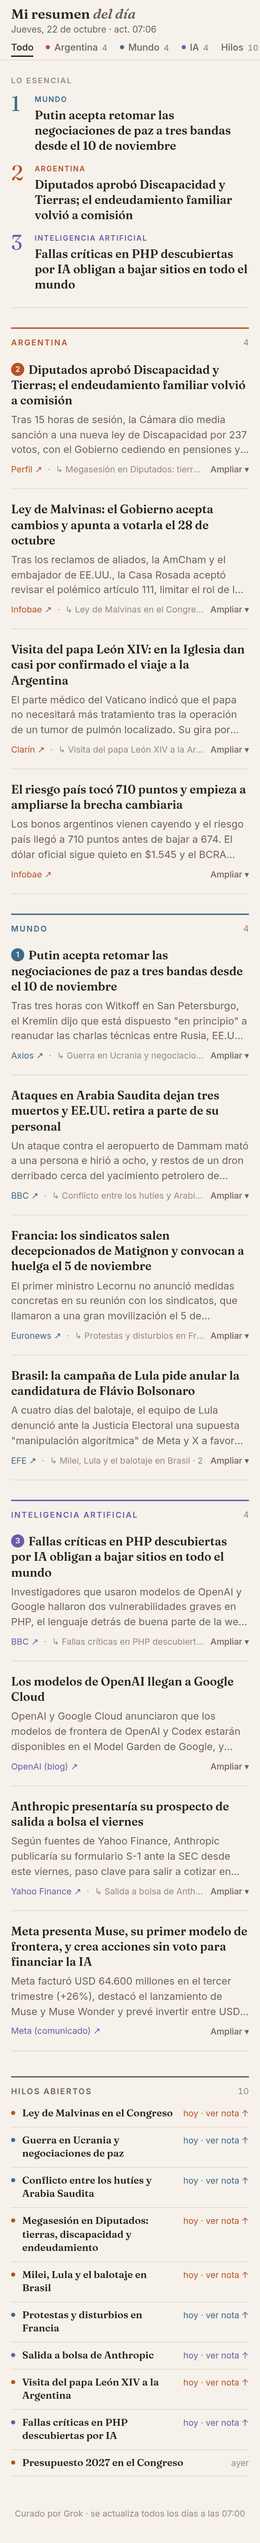
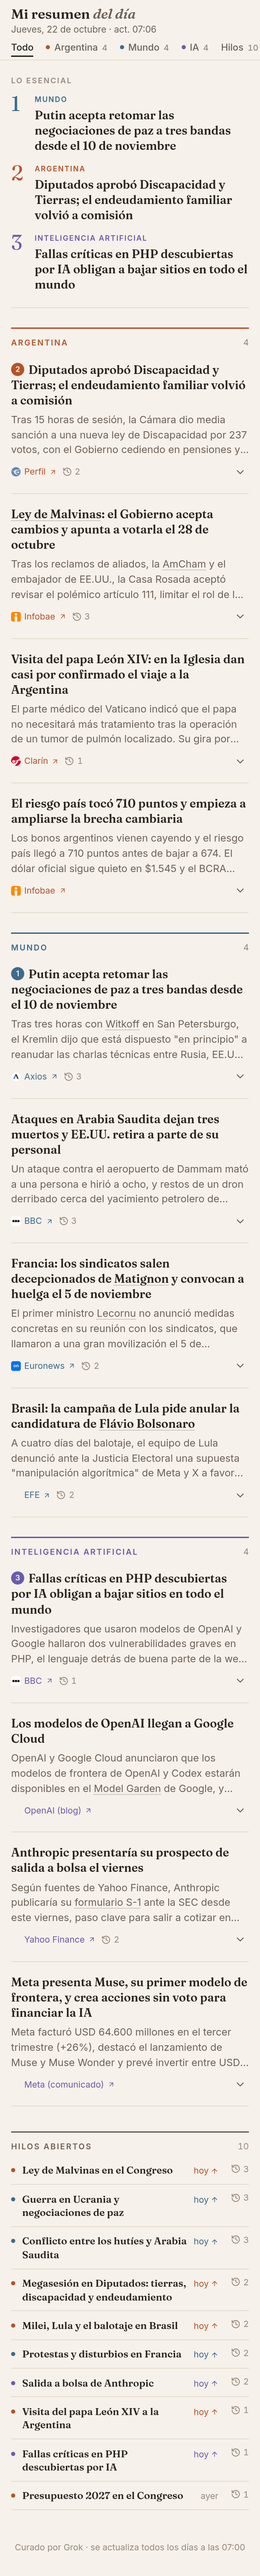
Glosario emergente e íconos

diff --git a/app.js b/app.js
@@ -11,8 +11,62 @@
     var p = String(nombre).trim().split(/\s+/);
     return nombre.length > 14 && p.length > 1 ? p.map(function (w) { return w.charAt(0).toUpperCase(); }).join("") : nombre;
   };
+  var GLOSARIO = window.GLOSARIO || {};
+  var ICONOS = {
+    "flecha-diag": '<path d="M7 17 17 7"/><path d="M7 7h10v10"/>',
+    "flecha-arriba": '<path d="m5 12 7-7 7 7"/><path d="M12 19V5"/>',
+    "historial": '<path d="M3 12a9 9 0 1 0 9-9 9.75 9.75 0 0 0-6.74 2.74L3 8"/><path d="M3 3v5h5"/><path d="M12 7v5l4 2"/>',
+    "chevron": '<path d="m6 9 6 6 6-6"/>',
+    "diana": '<circle cx="12" cy="12" r="10"/><circle cx="12" cy="12" r="6"/><circle cx="12" cy="12" r="2"/>',
+    "persona": '<circle cx="12" cy="8" r="5"/><path d="M20 21a8 8 0 0 0-16 0"/>',
+    "ley": '<path d="M15 2H6a2 2 0 0 0-2 2v16a2 2 0 0 0 2 2h12a2 2 0 0 0 2-2V7Z"/><path d="M14 2v4a2 2 0 0 0 2 2h4"/><path d="M16 13H8"/><path d="M16 17H8"/><path d="M10 9H8"/>',
+    "organizacion": '<rect width="16" height="20" x="4" y="2" rx="2"/><path d="M9 22v-4h6v4"/><path d="M8 6h.01"/><path d="M16 6h.01"/><path d="M12 6h.01"/><path d="M12 10h.01"/><path d="M12 14h.01"/><path d="M16 10h.01"/><path d="M16 14h.01"/><path d="M8 10h.01"/><path d="M8 14h.01"/>',
+    "lugar": '<path d="M20 10c0 4.993-5.539 10.193-7.399 11.799a1 1 0 0 1-1.202 0C9.539 20.193 4 14.993 4 10a8 8 0 0 1 16 0"/><circle cx="12" cy="10" r="3"/>',
+    "concepto": '<circle cx="12" cy="12" r="10"/><path d="M12 16v-4"/><path d="M12 8h.01"/>'
+  };
+  var ico = function (nombre, cls) {
+    return '<svg class="ico' + (cls ? " " + cls : "") + '" aria-hidden="true" viewBox="0 0 24 24" width="24" height="24" fill="none" stroke="currentColor" stroke-width="2" stroke-linecap="round" stroke-linejoin="round">' + (ICONOS[nombre] || "") + "</svg>";
+  };
+  var TIPOS = { persona: "Persona", ley: "Ley / norma", organizacion: "Organización", lugar: "Lugar", concepto: "Concepto" };
+  var dominio = function (u) { var m = /^https?:\/\/([^\/?#:]+)/i.exec(u || ""); return m ? m[1].replace(/^www\./i, "") : ""; };
   var fuente = function (x) {
-    return x.fuente ? '<a class="fuente" href="' + esc(x.url || "#") + '" target="_blank" rel="noopener">' + esc(x.fuente) + ' <span aria-hidden="true">↗</span></a>' : "";
+    if (!x.fuente) return "";
+    var d = dominio(x.url);
+    return '<a class="fuente" href="' + esc(x.url || "#") + '" target="_blank" rel="noopener">' +
+      (d ? '<img class="fav" src="https://www.google.com/s2/favicons?domain=' + encodeURIComponent(d) + '&amp;sz=32" width="14" height="14" loading="lazy" alt="" onerror="this.remove()">' : "") +
+      esc(x.fuente) + ico("flecha-diag", "ico-11") + "</a>";
+  };
+
+  // Glosario: marca la primera aparición de cada término (título → resumen → porQueImporta)
+  var marcar = function (textos, ids) {
+    var rangos = textos.map(function () { return []; }), faltan = [];
+    ids.slice(0, 4).forEach(function (id) {
+      var g = GLOSARIO[id]; if (!g) return;
+      var terms = [g.nombre].concat(g.alias || []).filter(Boolean)
+        .sort(function (a, b) { return b.length - a.length; });
+      for (var ti = 0; ti < textos.length; ti++) {
+        var low = (textos[ti] || "").toLowerCase();
+        for (var k = 0; k < terms.length; k++) {
+          var q = terms[k].toLowerCase(), from = 0, i;
+          while ((i = low.indexOf(q, from)) >= 0) {
+            var fin = i + q.length;
+            var choca = rangos[ti].some(function (r) { return i < r[1] && fin > r[0]; });
+            if (!choca) { rangos[ti].push([i, fin, id]); return; }
+            from = i + 1;
+          }
+        }
+      }
+      faltan.push(id);
+    });
+    var html = textos.map(function (t, ti) {
+      t = t || ""; var rs = rangos[ti].sort(function (a, b) { return a[0] - b[0]; }), out = "", pos = 0;
+      rs.forEach(function (r) {
+        out += esc(t.slice(pos, r[0])) + '<span class="term" tabindex="0" data-g="' + esc(r[2]) + '">' + esc(t.slice(r[0], r[1])) + "</span>";
+        pos = r[1];
+      });
+      return out + esc(t.slice(pos));
+    });
+    return { html: html, faltan: faltan };
   };
 
   // Fecha y hora de actualización
@@ -75,15 +129,19 @@
     ns.forEach(function (x, ni) {
       var id = "nota-" + ti + "-" + ni, H = x.hilo && HILOS[x.hilo];
       var ents = H ? (H.entradas || []).filter(function (en) { return en.fecha !== hoy && en.url !== x.url; }) : [];
-      var extra = (x.porQueImporta ? '<div class="importa"><h4 class="rotulo">Por qué importa</h4><p>' + esc(x.porQueImporta) + "</p></div>" : "") +
-        (ents.length ? '<h4 class="rotulo">Antes en este hilo</h4>' + linea(ents) : "");
+      var mk = marcar([x.titulo, x.resumen, x.porQueImporta], x.glosario || []);
+      var extra = (x.porQueImporta ? '<div class="importa" title="Por qué importa">' + ico("diana") + "<p>" + mk.html[2] + "</p></div>" : "") +
+        (ents.length ? '<div class="antes" title="Antes en este hilo">' + linea(ents) + "</div>" : "") +
+        (mk.faltan.length ? '<p class="terminos">' + mk.faltan.map(function (g) {
+          return '<span class="term" tabindex="0" data-g="' + esc(g) + '">' + esc(GLOSARIO[g].nombre) + "</span>"; }).join(" · ") + "</p>" : "");
+      var nEnt = H ? (H.entradas || []).length : 0;
       html += '<article class="nota" id="' + id + '"' + (extra ? ' data-extra="1"' : "") + "><h3>" +
-        (numDe[id] ? '<span class="badge" aria-label="Esencial ' + numDe[id] + '">' + numDe[id] + "</span>" : "") + esc(x.titulo) + "</h3>" +
-        (x.resumen ? '<p class="bajada">' + esc(x.resumen) + "</p>" : "") +
+        (numDe[id] ? '<span class="badge" aria-label="Esencial ' + numDe[id] + '">' + numDe[id] + "</span>" : "") + mk.html[0] + "</h3>" +
+        (x.resumen ? '<p class="bajada">' + mk.html[1] + "</p>" : "") +
         '<div class="meta">' + fuente(x) +
-        (x.hilo ? (x.fuente ? '<span class="sep" aria-hidden="true">·</span>' : "") + '<button type="button" class="hilo-n" title="' + esc(H ? H.nombre : x.hilo) + '">↳ ' +
-          esc(H ? H.nombre : x.hilo) + (H ? " · " + (H.entradas || []).length : "") + "</button>" : "") +
-        '<button type="button" class="ampliar" aria-expanded="false" aria-controls="' + id + '-x">Ampliar ▾</button></div>' +
+        (x.hilo ? (function () { var lbl = (H ? H.nombre : x.hilo) + (H ? " · " + plural(nEnt, "entrada", "entradas") : "");
+          return '<button type="button" class="hilo-n" data-pop="' + esc(lbl) + '" aria-label="' + esc(lbl) + '">' + ico("historial") + (H ? "<span>" + nEnt + "</span>" : "") + "</button>"; })() : "") +
+        '<button type="button" class="ampliar" aria-expanded="false" aria-controls="' + id + '-x" aria-label="Ampliar" title="Ampliar">' + ico("chevron") + "</button></div>" +
         '<div class="extra" id="' + id + '-x" hidden>' + extra + "</div></article>";
     });
     html += "</section>";
@@ -101,7 +159,7 @@
   var fila = function (id) {
     var H = HILOS[id], ent = H.entradas || [], c = clase(H.tema), est, cuerpo = "";
     if (notaDeHilo[id]) {
-      est = '<span class="est"><a href="#' + notaDeHilo[id] + '" data-ir="' + notaDeHilo[id] + '">hoy · ver nota ↑</a></span>';
+      est = '<span class="est"><a href="#' + notaDeHilo[id] + '" data-ir="' + notaDeHilo[id] + '" title="Ver la nota de hoy">hoy' + ico("flecha-arriba", "ico-11") + '</a></span>';
       ent = ent.filter(function (e) { return e.fecha !== hoy; });
     } else if (seg[id]) {
       est = '<span class="est nov">novedad hoy</span>';
@@ -111,7 +169,8 @@
       est = '<span class="est">' + (d === null ? "" : d <= 0 ? "hoy" : d === 1 ? "ayer" : "hace " + d + " días") + "</span>";
     }
     return '<details class="hilo ' + c + '" id="hilo-' + esc(id) + '"><summary><span class="dot" aria-hidden="true"></span><span class="nom">' + esc(H.nombre || id) +
-      "</span>" + est + '<span class="n-ent">' + plural((H.entradas || []).length, "entrada", "entradas") + "</span></summary>" +
+      "</span>" + est + (function () { var t = plural((H.entradas || []).length, "entrada", "entradas");
+        return '<span class="n-ent" title="' + t + '" aria-label="' + t + '">' + ico("historial") + "<span>" + (H.entradas || []).length + "</span></span>"; })() + "</summary>" +
       '<div class="hilo-cuerpo">' + cuerpo + (ent.length ? linea(ent) : "") + "</div></details>";
   };
   if (ids.length) {
@@ -163,7 +222,8 @@
     var b = n.querySelector(".ampliar");
     b.hidden = false;
     b.setAttribute("aria-expanded", abrir ? "true" : "false");
-    b.textContent = abrir ? "Cerrar ▴" : "Ampliar ▾";
+    b.setAttribute("aria-label", abrir ? "Reducir" : "Ampliar");
+    b.setAttribute("title", abrir ? "Reducir" : "Ampliar");
     if (!abrir) revisar();
   };
   var ir = function (id) {
@@ -184,6 +244,34 @@
     if (b) { var n = b.closest(".nota"); toggle(n, b.classList.contains("hilo-n") ? true : null); }
   });
   document.addEventListener("animationend", function (ev) { ev.target.classList.remove("resaltada"); });
+
+  // Ficha emergente (glosario y [data-pop])
+  var pop = $("pop");
+  if (!pop) { pop = document.createElement("div"); pop.id = "pop"; pop.className = "pop"; pop.setAttribute("role", "tooltip"); pop.hidden = true; document.body.appendChild(pop); }
+  var actual = null;
+  var mostrar = function (el) {
+    var html;
+    if (el.hasAttribute("data-g")) {
+      var g = GLOSARIO[el.getAttribute("data-g")]; if (!g) return;
+      html = '<div class="pop-cab">' + ico(TIPOS[g.tipo] ? g.tipo : "concepto") + "<strong>" + esc(g.nombre) + "</strong><small>" + esc(TIPOS[g.tipo] || "") + "</small></div>" +
+        (g.texto ? "<p>" + esc(g.texto) + "</p>" : "");
+    } else html = "<p>" + esc(el.getAttribute("data-pop")) + "</p>";
+    var tema = el.closest(".t0,.t1,.t2,.t3,.t4"), tc = tema && /\bt\d\b/.exec(tema.className);
+    pop.className = "pop" + (tc ? " " + tc[0] : "");
+    pop.innerHTML = html; pop.hidden = false; actual = el;
+    var r = el.getBoundingClientRect(), w = pop.offsetWidth, h = pop.offsetHeight, M = 12;
+    var top = r.bottom + 8;
+    if (top + h > innerHeight - M) top = Math.max(M, r.top - 8 - h);
+    var left = Math.min(Math.max(M, r.left), document.documentElement.clientWidth - M - w);
+    pop.style.top = top + "px"; pop.style.left = Math.max(M, left) + "px";
+  };
+  var ocultar = function () { pop.hidden = true; actual = null; };
+  var objetivo = function (t) { return t && t.closest ? t.closest(".term,[data-pop]") : null; };
+  document.addEventListener("mouseover", function (ev) { var el = objetivo(ev.target); if (el && el !== actual) mostrar(el); });
+  document.addEventListener("mouseout", function (ev) { var el = objetivo(ev.target); if (el && !el.contains(ev.relatedTarget)) ocultar(); });
+  document.addEventListener("focusin", function (ev) { var el = objetivo(ev.target); if (el) mostrar(el); });
+  document.addEventListener("focusout", function (ev) { if (objetivo(ev.target)) ocultar(); });
+  window.addEventListener("scroll", function () { if (!pop.hidden) ocultar(); }, { passive: true });
 
   var guardado = "todo";
   try { guardado = localStorage.getItem("filtro") || "todo"; } catch (err) {}

diff --git a/styles.css b/styles.css
@@ -1,12 +1,12 @@
 :root{
-  --bg:#f6f1ea; --txt:#2a2420; --suave:#6e635a; --tenue:#968a7f; --linea:#e3d8ca;
+  --bg:#f6f1ea; --card:#fffdf9; --txt:#2a2420; --suave:#6e635a; --tenue:#968a7f; --linea:#e3d8ca;
   --a0:#b4532a; --a1:#3d6b8c; --a2:#6b5bab; --a3:#3f7a5a; --a4:#a8623d;
   --serif:"Fraunces","Iowan Old Style","Palatino Linotype",Georgia,serif;
   --sans:"Inter",system-ui,-apple-system,"Segoe UI",Roboto,sans-serif;
   --max:1240px; --m:32px;
 }
 @media (prefers-color-scheme:dark){:root{
-  --bg:#1b1815; --txt:#ede6dc; --suave:#a89d91; --tenue:#7d7369; --linea:#35302a;
+  --bg:#1b1815; --card:#2a2521; --txt:#ede6dc; --suave:#a89d91; --tenue:#7d7369; --linea:#35302a;
   --a0:#e28a62; --a1:#7fb0d4; --a2:#ab9de6; --a3:#7cc29a; --a4:#e0a27c;
 }}
 *{box-sizing:border-box}
@@ -62,17 +62,23 @@ main{max-width:calc(var(--max) + 2*var(--m));margin:0 auto;padding:22px var(--m)
 .bajada{margin:0;font-size:14.5px;line-height:1.5;color:var(--suave);display:-webkit-box;-webkit-box-orient:vertical;-webkit-line-clamp:3;line-clamp:3;overflow:hidden}
 .abierta .bajada{display:block;-webkit-line-clamp:unset;line-clamp:unset}
 .meta{display:flex;align-items:center;gap:8px;margin-top:8px;font-size:12.5px;color:var(--tenue);white-space:nowrap;min-width:0}
+.fuente{display:inline-flex;gap:5px;align-items:center}
 .meta .fuente{color:var(--ac);text-decoration:none;flex:none}
+.fav{width:14px;height:14px;border-radius:3px;flex:none}
 .meta .fuente:hover,.hilos .fuente:hover{text-decoration:underline}
-.meta .sep{flex:none}
-.meta .hilo-n{appearance:none;background:none;border:0;padding:0;font:inherit;color:var(--tenue);cursor:pointer;overflow:hidden;text-overflow:ellipsis;min-width:0;flex:0 1 auto;text-align:left}
+.meta .hilo-n{appearance:none;background:none;border:0;padding:0;font:inherit;color:var(--tenue);cursor:pointer;display:inline-flex;align-items:center;gap:4px;font-variant-numeric:tabular-nums;flex:none}
 .meta .hilo-n:hover{color:var(--suave)}
-.ampliar{appearance:none;background:none;border:0;padding:0;margin-left:auto;font:500 12.5px var(--sans);color:var(--suave);cursor:pointer;flex:none}
-.ampliar:hover{color:var(--txt)}
+.ampliar{appearance:none;background:none;border:0;padding:0;margin-left:auto;width:26px;height:26px;border-radius:50%;display:inline-flex;align-items:center;justify-content:center;color:var(--suave);cursor:pointer;flex:none}
+.ampliar:hover{background:color-mix(in srgb,var(--txt) 8%,transparent)}
+.ampliar .ico{width:17px;height:17px;transition:transform .2s}
+.ampliar[aria-expanded="true"] .ico{transform:rotate(180deg)}
 .extra{margin-top:12px}
 .extra[hidden]{display:none}
-.importa{border-left:2px solid var(--ac);padding:2px 0 2px 12px;margin:0 0 14px}
-.importa p{margin:3px 0 0;font-size:14px;line-height:1.5}
+.importa{display:grid;grid-template-columns:16px 1fr;gap:9px;margin:0 0 14px}
+.importa .ico{width:16px;height:16px;color:var(--ac);margin-top:2px}
+.importa p{margin:0;font-size:14px;line-height:1.5;color:var(--txt)}
+.antes .tl{border-left:2px solid var(--ac);padding-left:12px}
+.terminos{margin:10px 0 0;font-size:13px;color:var(--suave)}
 .extra .rotulo{font-size:10.5px}
 .tl{list-style:none;margin:6px 0 0;padding:0}
 .tl li{display:grid;grid-template-columns:52px minmax(0,1fr);gap:0 10px;padding:7px 0;border-top:1px solid var(--linea);font-size:13.5px;line-height:1.45}
@@ -99,7 +105,8 @@ main{max-width:calc(var(--max) + 2*var(--m));margin:0 auto;padding:22px var(--m)
 .hilo .est{flex:none;white-space:nowrap}
 .hilo .est a{color:var(--ac);text-decoration:none}
 .hilo .est.nov{color:var(--ac)}
-.hilo .n-ent{flex:none;white-space:nowrap;min-width:64px;text-align:right}
+.hilo .est a{display:inline-flex;align-items:center;gap:3px}
+.hilo .n-ent{flex:none;white-space:nowrap;min-width:34px;display:inline-flex;gap:4px;align-items:center;justify-content:flex-end;font-variant-numeric:tabular-nums}
 .hilo-cuerpo{padding:0 0 12px 16px}
 .hilo-cuerpo .novedad{margin:0 0 6px;font-size:13.5px;color:var(--txt)}
 .hilo-cuerpo .novedad b{font:600 10.5px var(--sans);letter-spacing:.12em;text-transform:uppercase;color:var(--ac);margin-right:6px}
@@ -132,6 +139,20 @@ body[data-filtro="hilos"] .hilos{margin-top:4px}
   .filtros{overflow-x:auto;scrollbar-width:none;-ms-overflow-style:none;margin:0 calc(-1*var(--m));padding:0 var(--m)}
   .filtros::-webkit-scrollbar{display:none}
   .nota h3,.esencial h2{font-size:17px}
-  .hilo .n-ent{display:none}
 }
 @media (max-width:400px){h1{font-size:20px}.marca{flex-wrap:wrap;row-gap:0}}
+
+/* Íconos */
+.ico{width:14px;height:14px;flex:none;vertical-align:-2px}
+.ico-11{width:11px;height:11px}
+/* Glosario */
+.term{text-decoration:underline dotted 1px;text-decoration-color:color-mix(in srgb,var(--txt) 45%,transparent);text-underline-offset:3px;cursor:help}
+.term:hover,.term:focus{text-decoration-style:solid;text-decoration-color:var(--ac,var(--txt));outline:none}
+.term:focus-visible{outline:2px solid var(--ac,var(--a0));outline-offset:2px}
+.pop{position:fixed;z-index:50;max-width:320px;padding:10px 13px;border-radius:9px;background:var(--card);border:1px solid var(--linea);
+  box-shadow:0 10px 30px -10px rgba(0,0,0,.35);font-size:13.5px;line-height:1.5;color:var(--txt);pointer-events:none;top:0;left:0}
+.pop p{margin:0}
+.pop-cab{display:flex;align-items:center;gap:7px;margin-bottom:3px}
+.pop-cab .ico{color:var(--ac,var(--suave))}
+.pop-cab strong{font:600 15px/1.3 var(--serif)}
+.pop-cab small{margin-left:auto;padding-left:12px;font:600 10px var(--sans);letter-spacing:.1em;text-transform:uppercase;color:var(--tenue);white-space:nowrap}

diff --git a/noticias.js b/noticias.js
@@ -21,6 +21,7 @@ window.NOTICIAS = {
           "porQueImporta": "Es el primer roce visible con el gobierno de Trump y define si el oficialismo consigue los votos para su proyecto de soberanía.",
           "fuente": "Infobae",
           "url": "https://www.infobae.com/politica/2026/10/22/el-objetivo-del-gobierno-detras-de-la-causa-de-malvinas-y-la-complicacion-por-la-nueva-postura-de-eeuu/",
+          "glosario": ["ley-malvinas", "amcham", "comite-descolonizacion"],
           "hilo": "ley-malvinas"
         },
         {
@@ -36,7 +37,8 @@ window.NOTICIAS = {
           "resumen": "Los bonos argentinos vienen cayendo y el riesgo país llegó a 710 puntos antes de bajar a 674. El dólar oficial sigue quieto en $1.545 y el BCRA compra divisas, pero el contado con liquidación ya está casi 6% arriba.",
           "porQueImporta": "Refleja la desconfianza del mercado a un año de las presidenciales, con una actividad económica que casi no rebota.",
           "fuente": "Infobae",
-          "url": "https://www.infobae.com/economia/2026/10/22/el-salto-del-riesgo-pais-no-altero-al-dolar-pero-empieza-a-impactar-en-la-brecha-cambiaria/"
+          "url": "https://www.infobae.com/economia/2026/10/22/el-salto-del-riesgo-pais-no-altero-al-dolar-pero-empieza-a-impactar-en-la-brecha-cambiaria/",
+          "glosario": ["ccl"]
         }
       ]
     },
@@ -49,6 +51,7 @@ window.NOTICIAS = {
           "porQueImporta": "Es la primera reapertura concreta de negociaciones directas desde febrero, aunque Rusia no cedió nada sobre territorio ni alto el fuego.",
           "fuente": "Axios",
           "url": "https://www.axios.com/2026/10/21/russia-ukraine-putin-witkoff-peace",
+          "glosario": ["witkoff"],
           "hilo": "guerra-ucrania"
         },
         {
@@ -57,6 +60,7 @@ window.NOTICIAS = {
           "porQueImporta": "La escalada entre los hutíes y Riad amenaza las exportaciones de petróleo en un momento en que Ormuz ya está prácticamente cerrado.",
           "fuente": "BBC",
           "url": "https://www.bbc.com/news/articles/c6x2vpk93770o",
+          "glosario": ["hutis", "ormuz"],
           "hilo": "hutis-arabia-saudita"
         },
         {
@@ -65,6 +69,7 @@ window.NOTICIAS = {
           "porQueImporta": "El conflicto pasa de las calles a una huelga general, lo que aumenta la presión sobre un gobierno débil.",
           "fuente": "Euronews",
           "url": "https://www.euronews.com/2026/10/21/disappointed-after-meeting-french-unions-call-for-5-november-action",
+          "glosario": ["matignon", "lecornu"],
           "hilo": "protestas-francia"
         },
         {
@@ -73,6 +78,7 @@ window.NOTICIAS = {
           "porQueImporta": "El resultado del domingo define la relación con el principal socio de la Argentina, ya tensa por los dichos de Milei.",
           "fuente": "EFE",
           "url": "https://efe.com/mundo/2026-10-22/lula-pide-anular-candidatura-bolsonaro-meta-x/",
+          "glosario": ["flavio-bolsonaro"],
           "hilo": "milei-lula-balotaje-brasil"
         }
       ]
@@ -93,7 +99,8 @@ window.NOTICIAS = {
           "resumen": "OpenAI y Google Cloud anunciaron que los modelos de frontera de OpenAI y Codex estarán disponibles en el Model Garden de Google, y pronto en Gemini Agent. Microsoft sigue siendo su socio principal en la nube.",
           "porQueImporta": "Dos rivales directos se alían: OpenAI busca más clientes empresariales y Google se posiciona como plataforma neutral de modelos.",
           "fuente": "OpenAI (blog)",
-          "url": "https://openai.com/index/openai-models-google-cloud"
+          "url": "https://openai.com/index/openai-models-google-cloud",
+          "glosario": ["model-garden"]
         },
         {
           "titulo": "Anthropic presentaría su prospecto de salida a bolsa el viernes",
@@ -101,6 +108,7 @@ window.NOTICIAS = {
           "porQueImporta": "Sería la mayor salida a bolsa de la historia y un termómetro del apetito inversor por la IA.",
           "fuente": "Yahoo Finance",
           "url": "https://finance.yahoo.com/markets/article/anthropic-to-publicly-file-for-ipo-as-early-as-friday-sources-say-135343841.html",
+          "glosario": ["s-1"],
           "hilo": "ipo-anthropic"
         },
         {

diff --git a/glosario.js b/glosario.js
@@ -1,0 +1,87 @@
+// Glosario persistente. Crece cada día; nunca se reinicia.
+window.GLOSARIO = {
+  "ley-malvinas": {
+    "nombre": "Ley de Malvinas",
+    "tipo": "ley",
+    "texto": "Nombre coloquial del proyecto oficial de Defensa de la Soberanía Nacional, de 133 artículos, que también reforma defensa e inteligencia. Se debate en Diputados.",
+    "alias": ["Ley de Malvinas"],
+    "actualizado": "2026-10-22"
+  },
+  "amcham": {
+    "nombre": "AmCham Argentina",
+    "tipo": "organizacion",
+    "texto": "Cámara de Comercio de los Estados Unidos en la Argentina, que agrupa a empresas estadounidenses en el país. Objetó artículos de la Ley de Malvinas.",
+    "alias": ["AmCham"],
+    "actualizado": "2026-10-22"
+  },
+  "comite-descolonizacion": {
+    "nombre": "Comité de Descolonización de la ONU (C-24)",
+    "tipo": "organizacion",
+    "texto": "Comité Especial de la ONU creado en 1961 que sigue los territorios no autónomos, entre ellos las Malvinas. Cada año pide negociar a la Argentina y el Reino Unido.",
+    "alias": ["Comité de Descolonización de la ONU", "Comité de Descolonización", "C-24"],
+    "actualizado": "2026-10-22"
+  },
+  "ccl": {
+    "nombre": "Contado con liquidación (CCL)",
+    "tipo": "concepto",
+    "texto": "Dólar que se obtiene comprando en pesos acciones o bonos y vendiéndolos en dólares en el exterior. Su distancia con el oficial mide la brecha cambiaria.",
+    "alias": ["contado con liquidación", "CCL"],
+    "actualizado": "2026-10-22"
+  },
+  "witkoff": {
+    "nombre": "Steve Witkoff",
+    "tipo": "persona",
+    "texto": "Empresario inmobiliario y enviado especial de Donald Trump. Negocia en su nombre con Rusia y en Medio Oriente.",
+    "alias": ["Witkoff"],
+    "actualizado": "2026-10-22"
+  },
+  "hutis": {
+    "nombre": "Hutíes",
+    "tipo": "organizacion",
+    "texto": "Movimiento armado yemení (Ansar Allah) que controla el norte de Yemen y la capital, Saná. Es aliado de Irán y combate a Arabia Saudita.",
+    "alias": ["hutíes", "hutí"],
+    "actualizado": "2026-10-22"
+  },
+  "ormuz": {
+    "nombre": "Estrecho de Ormuz",
+    "tipo": "lugar",
+    "texto": "Paso marítimo entre Irán y Omán que une el golfo Pérsico con el mar Arábigo. Por allí sale cerca de un quinto del petróleo que se comercia en el mundo.",
+    "alias": ["Ormuz"],
+    "actualizado": "2026-10-22"
+  },
+  "matignon": {
+    "nombre": "Hôtel de Matignon",
+    "tipo": "lugar",
+    "texto": "Residencia y sede del primer ministro de Francia, en París. Por extensión, se usa para nombrar a la jefatura del Gobierno.",
+    "alias": ["Matignon"],
+    "actualizado": "2026-10-22"
+  },
+  "lecornu": {
+    "nombre": "Sébastien Lecornu",
+    "tipo": "persona",
+    "texto": "Primer ministro de Francia desde septiembre de 2025, designado por Emmanuel Macron. Antes fue ministro de las Fuerzas Armadas.",
+    "alias": ["Lecornu"],
+    "actualizado": "2026-10-22"
+  },
+  "flavio-bolsonaro": {
+    "nombre": "Flávio Bolsonaro",
+    "tipo": "persona",
+    "texto": "Senador por Río de Janeiro e hijo mayor del expresidente Jair Bolsonaro. Es el candidato de la derecha contra Lula en el balotaje.",
+    "alias": ["Flávio Bolsonaro"],
+    "actualizado": "2026-10-22"
+  },
+  "model-garden": {
+    "nombre": "Model Garden",
+    "tipo": "concepto",
+    "texto": "Catálogo de Vertex AI, la plataforma de IA de Google Cloud, donde las empresas eligen y usan modelos propios de Google y de terceros.",
+    "alias": ["Model Garden"],
+    "actualizado": "2026-10-22"
+  },
+  "s-1": {
+    "nombre": "Formulario S-1",
+    "tipo": "ley",
+    "texto": "Prospecto que una empresa presenta ante la SEC, el regulador bursátil de EE.UU., para salir a bolsa. Hace públicas sus finanzas y riesgos.",
+    "alias": ["formulario S-1", "S-1"],
+    "actualizado": "2026-10-22"
+  }
+};

diff --git a/index.html b/index.html
@@ -29,8 +29,10 @@
   <section id="hilos" class="hilos" hidden aria-labelledby="hilos-rot"></section>
 </main>
 <footer class="pie">Curado por Grok · se actualiza todos los días a las 07:00</footer>
+<div id="pop" class="pop" role="tooltip" hidden></div>
 <script src="noticias.js"></script>
 <script src="hilos.js"></script>
+<script src="glosario.js"></script>
 <script src="app.js"></script>
 </body>
 </html>
